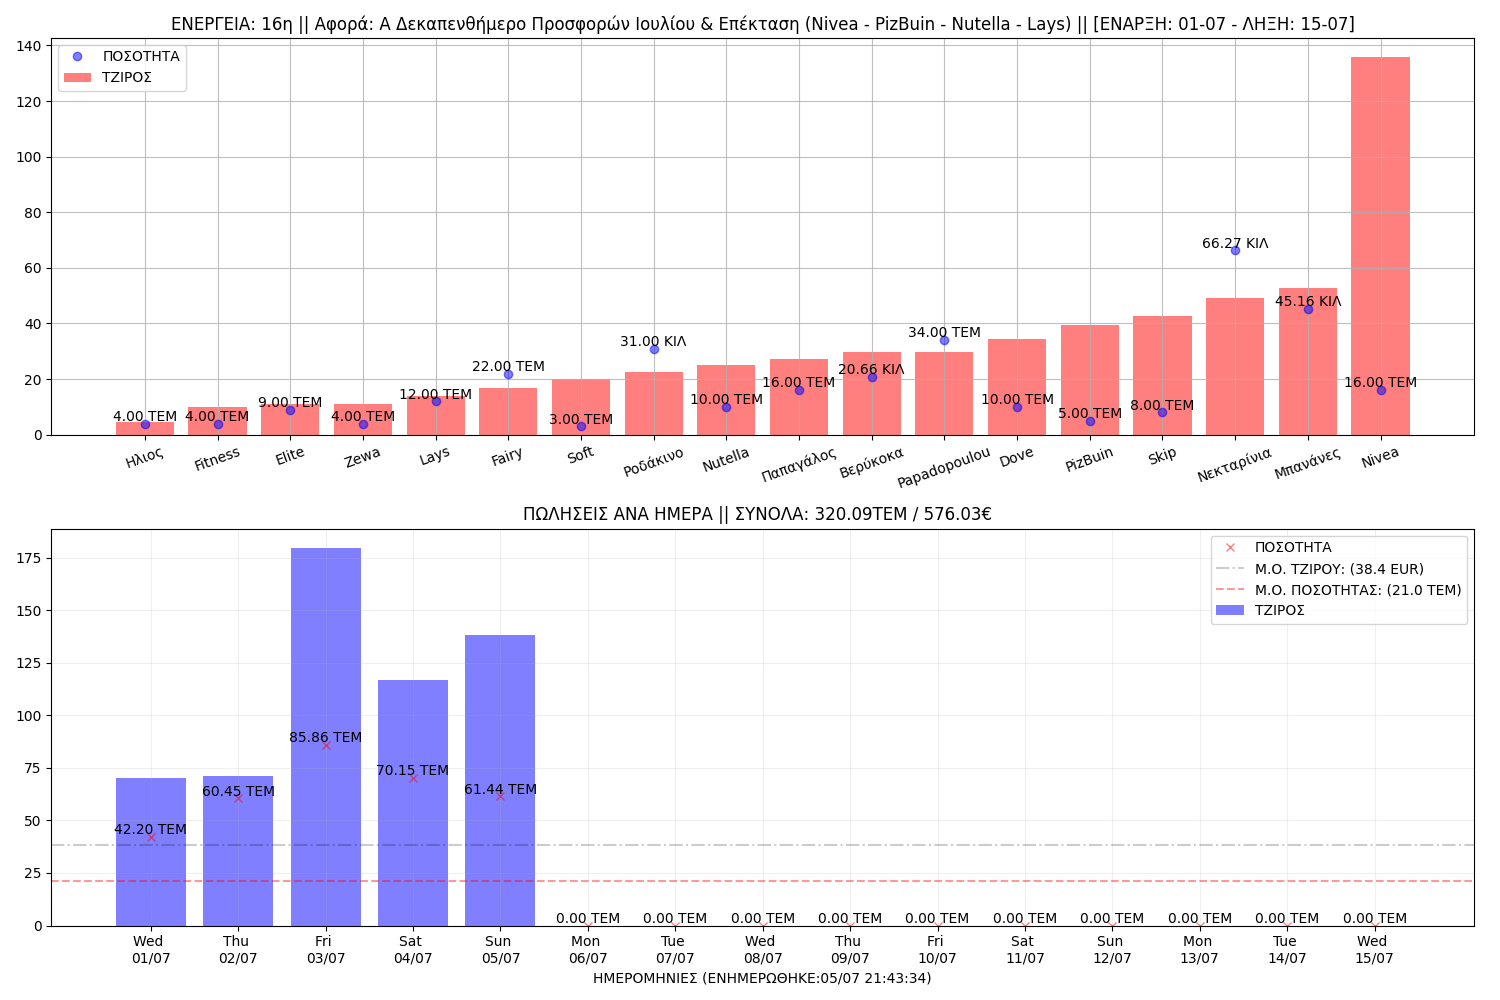
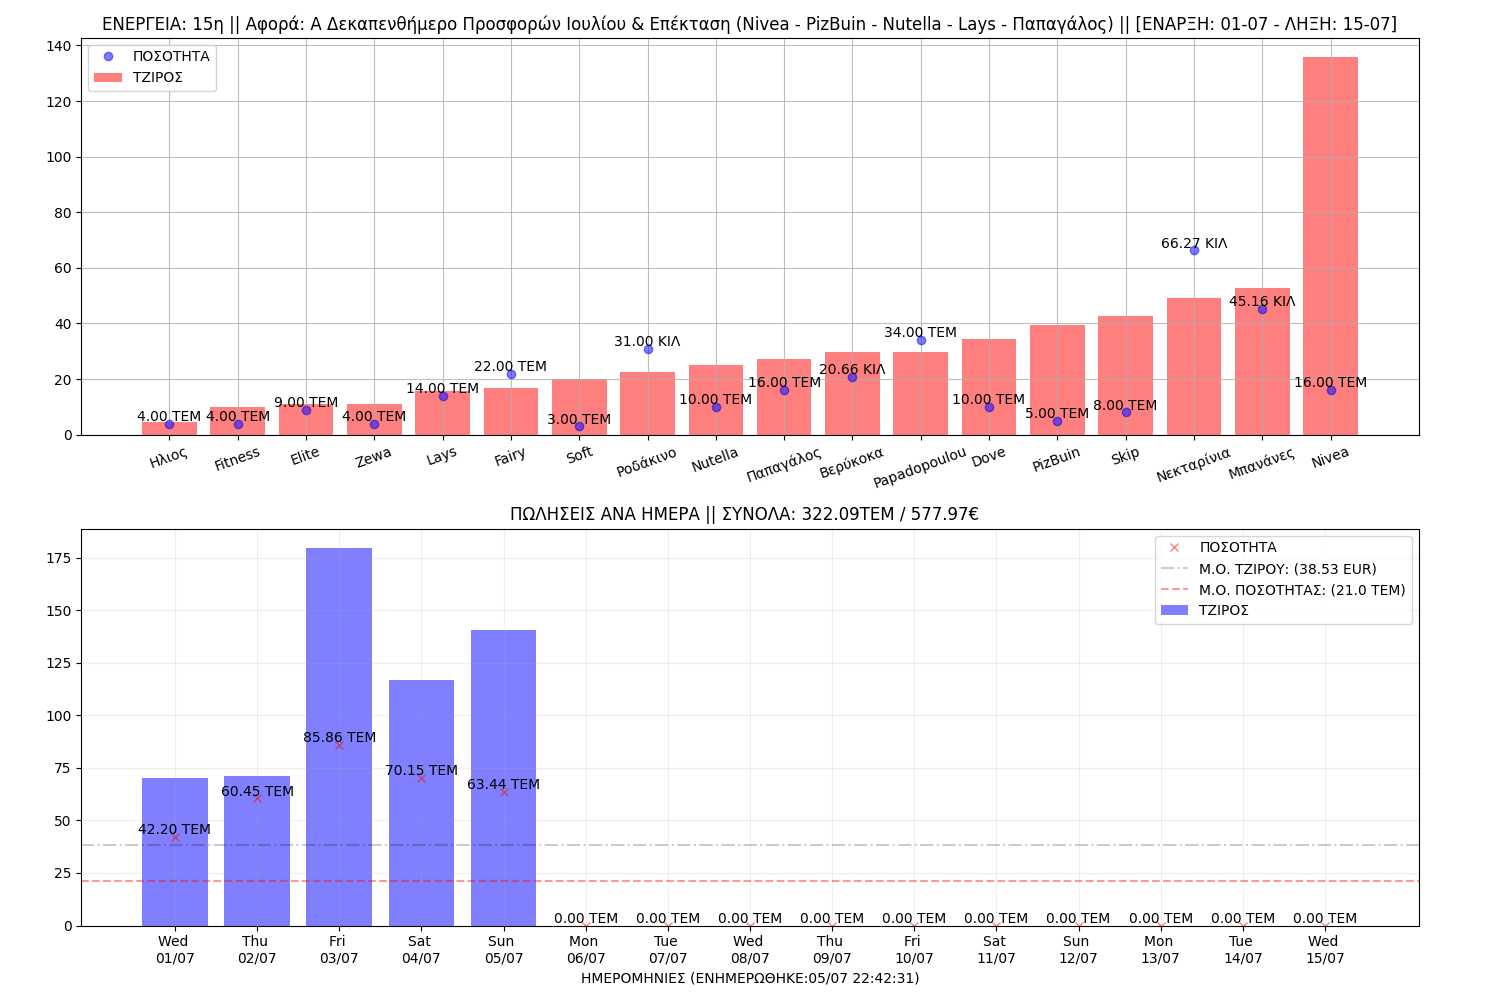
``@Ioannis E. Kommas (PyCharm Commit and Push Code Lines)``

diff --git a/A_DAILY_ΠΟΡΕΙΑ_ΤΙΜΟΚΑΤΑΛΟΓΟΥ_ΠΩΛΗΣΕΩΝ/library/timokatalogos.py b/A_DAILY_ΠΟΡΕΙΑ_ΤΙΜΟΚΑΤΑΛΟΓΟΥ_ΠΩΛΗΣΕΩΝ/library/timokatalogos.py
@@ -74,33 +74,30 @@ nuvoleta_2020 = Timokatalogos(12,
                               datetime(2020, 5, 31),
                               'Αφορά: B Δεκαπενθήμερο Προσφορών Μαϊου')
 
-nivea_2020 = Timokatalogos(13,
-                           datetime(2020, 5, 13),
-                           datetime(2020, 6, 30),
-                           'Αφορά: Αντιηλιακά που λήγουν')
-
-june_2020 = Timokatalogos(14,
+june_2020 = Timokatalogos(13,
                           datetime(2020, 6, 1),
                           datetime(2020, 6, 15),
-                          'Αφορά: Α Δεκαπενθήμερο Προσφορών Ιουνίου')
+                          'Αφορά: Α Δεκαπενθήμερο Προσφορών Ιουνίου & Eπέκταση (Nivea - PizBuin)')
 
-june_extra_2020 = Timokatalogos(15,
+june_extra_2020 = Timokatalogos(14,
                                 datetime(2020, 6, 16),
                                 datetime(2020, 6, 30),
-                                'Αφορά: B Δεκαπενθήμερο Προσφορών Ιουνίου & Επέκταση Mπύρα και Καφές')
+                                'Αφορά: B Δεκαπενθήμερο Προσφορών Ιουνίου & Επέκταση (Nivea - PizBuin - Royal Dutch - '
+                                'Παπαγάλος)')
 
-jule_2020 = Timokatalogos(16,
+jule_2020 = Timokatalogos(15,
                           datetime(2020, 7, 1),
                           datetime(2020, 7, 15),
-                          'Αφορά: Α Δεκαπενθήμερο Προσφορών Ιουλίου & Eπέκταση (Nivea - PizBuin - Nutella - Lays)')
+                          'Αφορά: Α Δεκαπενθήμερο Προσφορών Ιουλίου & Eπέκταση (Nivea - PizBuin - Nutella - Lays - '
+                          'Παπαγάλος)')
 
-jule_2020_b = Timokatalogos(17,
+jule_2020_b = Timokatalogos(16,
                             datetime(2020, 7, 16),
                             datetime(2020, 7, 31),
                             'Αφορά: B Δεκαπενθήμερο Προσφορών Ιουλίου & Eπέκταση (Παπαγάλος)')
 
 lista_2020 = [january_2020_02, nestle_2020, feb_2020, kinder_2020, xtapodi_2020, nescafe_2020, march_2020, april_2020,
-              alevri_2020, may_2020, may_2020_b, nuvoleta_2020, nivea_2020, june_2020, june_extra_2020, jule_2020]
+              alevri_2020, may_2020, may_2020_b, nuvoleta_2020, june_2020, june_extra_2020, jule_2020]
 
 for i in lista_2020:
     print(i.id, i.comments)

diff --git a/A_DAILY_ΠΟΡΕΙΑ_ΤΙΜΟΚΑΤΑΛΟΓΟΥ_ΠΩΛΗΣΕΩΝ/pricelist_main_app.py b/A_DAILY_ΠΟΡΕΙΑ_ΤΙΜΟΚΑΤΑΛΟΓΟΥ_ΠΩΛΗΣΕΩΝ/pricelist_main_app.py
@@ -12,8 +12,15 @@ import numpy as np
 pd.set_option('display.max_columns', 500)
 pd.set_option('display.width', 1000)
 
+# -------------------- SLACK DELETE ALL --------------------
+# x = (slack_app.history(slack_app.channels_id[0]))
+# for i in range(len(x['messages'])):
+#     timer = (x['messages'][i]['ts'])
+#     slack_app.delete(slack_app.channels_id[0], timer)
+
 # -------------------- STATEMENTS HERE --------------------
 choose_pricelist = timokatalogos.lista_2020[-1]
+# for choose_pricelist in timokatalogos.lista_2020:
 from_date = choose_pricelist.start
 to_date = choose_pricelist.end
 id = choose_pricelist.id
